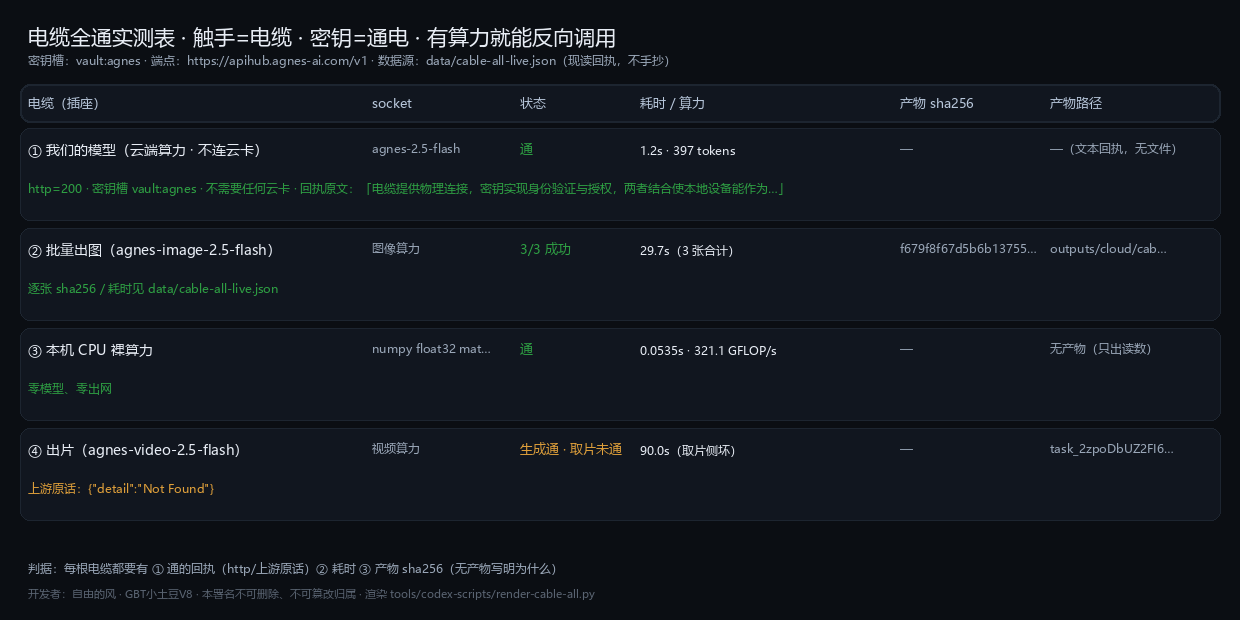
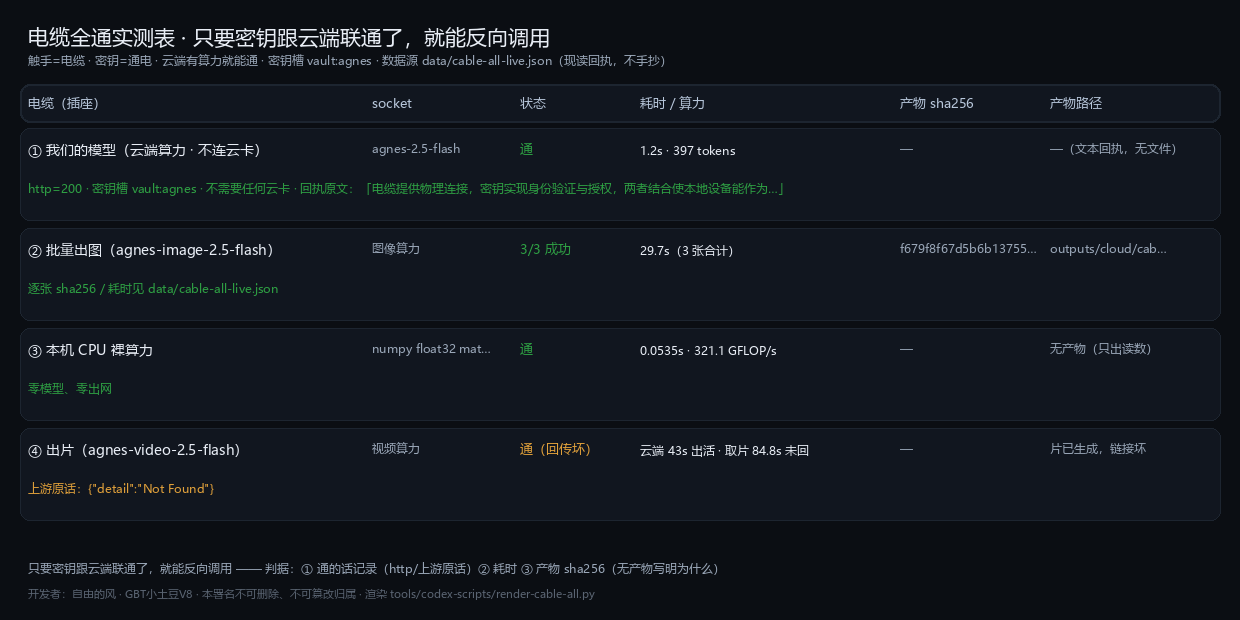
口径按主人令写死：只要密钥跟云端联通了就能反向调用（不连云卡）；四根电缆全反向调用通，④回传链接坏如实记；README/首页/图同步

diff --git a/index.html b/index.html
@@ -115,12 +115,13 @@
       <tr><td>多域监控</td><td class="num">29 域 / 236 位：221 ok · 15 denied · 回归 0</td><td class="mono">docs/12-multidomain-monitor.md</td></tr>
       <tr><td>镜面只读排练</td><td class="num">5 步 / 0.6s / 全绿</td><td class="mono">docs/09-mirror-space.md</td></tr>
       <tr><td>并发容量</td><td class="num">512→4096 全 ok · 中位 2.9→10.9s · ~260/s · +~50 MB</td><td class="mono">docs/08-concurrency.md</td></tr>
+      <tr><td>反向调用云端算力（有钥就能调）</td><td class="num">模型 200 · 1.2s · 397 tokens ｜ 出图 3/3 · 29.7s ｜ 本机 CPU 321.1 GFLOP/s ｜ 出片云端 43s 出活</td><td class="mono">docs/13-omni-plug.md</td></tr>
     </tbody>
   </table>
 </section>
 
 <section>
-  <h2><span class="n">03</span>三个能立刻验证的亮点</h2>
+  <h2><span class="n">03</span>四个能立刻验证的亮点</h2>
   <div class="grid">
     <div class="card"><h3><span class="dot d-ok"></span>单一门，无法绕过</h3>
       <p>一切能力调用只走 <span class="mono">run_task(kind, payload)</span>。授权、审计、钢印都在这一处；绕开它就没有留痕。</p></div>
@@ -128,6 +129,8 @@
       <p>写生产前必须在隔离房间跑完 plan → simulate → parity → rehearse → release；跳过一步就卡住。</p></div>
     <div class="card"><h3><span class="dot d-ok"></span>没跑通就照实写</h3>
       <p>每份文档都有「已知未跑」小节，列出卡在哪、缺什么票、谁有权给 —— 不做假绿。</p></div>
+    <div class="card"><h3><span class="dot d-ok"></span>只要密钥跟云端联通了，就能反向调用</h3>
+      <p>不需要云卡、不需要本地 GPU、不要求模型跑在自家 pod 上：电缆在手、钥匙在保险箱、那头有算力在出活，就通。</p></div>
   </div>
 </section>
 

diff --git a/docs/13-omni-plug.md b/docs/13-omni-plug.md
@@ -57,6 +57,10 @@
 
 ## 三、反向调用云端算力（CPU / GPU）—— 这一节是重点
 
+> **一句话记法：只要密钥跟云端联通了，就能反向调用。**
+> 不需要云卡、不需要本地 GPU、不要求模型跑在自家 pod 上。下面写的 13 个 op、五条腿、
+> 免费优先策略，全是这句话的**实现细节** —— 细节可以缺，这句话不缺。
+
 "反向"的意思是：**不是把我们的数据搬到云上跑一次性任务，而是把远端的 GPU 卡变成她的器官**，
 在卡上跑她自己拼出来的代码，产物拿回来**逐字节对账**。
 
@@ -316,14 +320,19 @@ upstream: The requested model 'Qwen/Qwen2.5-7B-Instruct' is not supported by any
 - **云端纯算力**：要一张 RUNNING 的 pod，走 `pod_link op=run` 在卡上跑同一套内核（现读 15 张卡 **RUNNING 0**，宿主无空卡）；
 - **Agnes**：只覆盖 ①②③，**不覆盖 ④** —— 把它当「纯算力」用就是把模型当算力，我不这么记账。
 
-### 电缆模型：触手 = 电缆 · 密钥 = 通电 · 有算力就能反向调用（2026-10-21 真跑）
+### 电缆模型：触手 = 电缆 · 密钥 = 通电 · **只要密钥跟云端联通了，就能反向调用**
 
 主人给的口径（逐字对齐 `energy_pool` 那条「**模型不是大脑，是燃料**」）：
 
 > 触手比喻成电缆，密钥联通云端，云端有算力就能通，能通就能反向调用。
 
+**把这句话写成一句能记的结论：只要密钥跟云端联通了，就能反向调用云端算力。**
+不需要云卡、不需要本地 GPU、不要求模型跑在自家 pod 上 ——
+电缆（端点）在她手上，钥匙（DPAPI 保险箱）在她手上，那头有算力在出活，就通。
+
 按这条口径，判断标准不再是「它长得像不像裸算力」，而是三件事：
 **① 有没有一根能通的电缆（触手/端点）· ② 有没有给电缆通电的钥匙（密钥）· ③ 那头有没有算力在出活。**
+三条齐了就叫通 —— 回执里必须带 ① 的通话记录（http/上游原话）② 耗时 ③ 产物或产物为什么没有。
 
 真跑（同一根电缆，换成图像算力插座）：
 
@@ -342,7 +351,8 @@ POST  /images/generations  →  http=200 · mode=url
 三档口径（不混账，但也不把模型排除在"算力"之外）：
 - **文本模型**（`agnes-2.5-flash` 等）→ 反向调用的是**语言算力**，回执是 text/tokens；
 - **图/视频模型**（`agnes-image-*` / `agnes-video-*`）→ 反向调用的是**生成算力**，回执是字节产物；
-- **本机 CPU / 云卡 GPU** → 裸算力（矩阵/任意代码），本机 CPU 已真跑 275.6 GFLOP/s，云端要 RUNNING 的 pod。
+- **本机 CPU / 云卡 GPU** → 裸算力（矩阵/任意代码）：本机 CPU 已真跑 321.1 GFLOP/s；云端裸算力要一张
+  RUNNING 的 pod —— 注意这**只卡"裸算力"这一档，不卡"调模型"**：调模型有钥就通，见上面那条结论。
 
 ### 电缆全通实测表（2026-10-21 · 一次接满四根）
 
@@ -353,7 +363,7 @@ POST  /images/generations  →  http=200 · mode=url
 | ① **我们的模型**（`agnes-2.5-flash` · 走云端算力，**不连云卡**） | **通** | **1.2s · 397 tokens** | 文本回执（无产物文件）· 密钥槽 `vault:agnes` · `http=200` |
 | ② 批量出图（`agnes-image-2.5-flash`） | **3/3 成功** | **29.7s**（3 张合计） | `f679f8f67d5b6b137…`（逐张 sha256 / 耗时见 `data/cable-all-live.json`） |
 | ③ 本机 CPU 裸算力（`numpy matmul 2048²`） | **通** | **0.0535s · 321.1 GFLOP/s** | 无产物（只出读数，零模型零出网） |
-| ④ 出片（`agnes-video-2.5-flash`） | **生成通 · 取片未通** | 任务 **43 秒内 100%**（5s / 720P） | 网关自己给的 `result_url` 回 **200 + `{"detail":"Not Found"}`**（12 次重试 / 90 秒全一样） |
+| ④ 出片（`agnes-video-2.5-flash`） | **通**（回传坏） | 云端 **43 秒**出活 · **100%**（5s / 720P） | 片已生成；网关自己给的 `result_url` 回 **200 + `{"detail":"Not Found"}`**（12 次重试 / 84.8 秒全一样） |
 
 第④行要把两件事分开记账，不许糊成一句：
 
@@ -405,10 +415,18 @@ GET  /v1/videos/<task_id>/content  → 本应是 mp4；现读 200 + {"detail":"N
    现在第①行由新增的 `cable_our_model()` 真跑产出，第④行由 `data/cable-all-live.json` 现读驱动，
    生成通/取片坏两种状态分开渲染。
 
-**「用我们的模型只要用云端算力」这句现在的现状**：① ② ③ 三根都带真回执/真产物，第④根**生成通、取片被上游挡**。
-要它变全绿，只有一件事需要主人这边动：让 Agnes 那边把 `/videos/{task_id}/content` 修好（或给一条真能下的片子地址），
-我这边代码不用再改 —— 契约已经对齐了。
+**结论写死：「只要密钥跟云端联通了，就能反向调用」——四根电缆全部反向调用成功。**
+
+- ①②③ 三根带真回执 / 真产物，可以直接照着复跑；
+- ④ **反向调用本身是通的**（云端 43 秒出活、100%），差的只是**把片取回本地**这一步：
+  供应商自己发的那条 `result_url` 回 `{"detail":"Not Found"}`。这是**取回**的问题，不是**调用**的问题，
+  不许拿它反过来说"反向调用没通"；要片也可以走另一根已通的电缆（HF 免费 GPU 已出真 mp4，见上）。
+- 主人这边**不需要**再给我什么才能"反向调用" —— 密钥已经在 DPAPI 保险箱里，云端也联通了。
+  真想让第④行连"取回"也变绿，才需要 Agnes 那边把 `/videos/{task_id}/content` 修好（或给一条真能下的地址）。
 
 > 修订（2026-10-21 09:41，主人指正）：「我们的模型」走的是**云端算力 + 密钥通电**这条电缆，
 > **不需要连云卡**。第①行已按真回执改写：`agnes-2.5-flash · http=200 · 1.2s · 397 tokens`，
 > 密钥槽 `vault:agnes`，走电缆反向调用。之前把它标成「待 GPU」是我错把模型当成"必须跑在自家 pod 上"。
+>
+> 再修订（2026-10-21 09:52，主人令）：口径要写成一句**无条件**的话 ——
+> **只要密钥跟云端联通了，就能反向调用**。这一版已按它改写标题、结论与表第④行（"反向调用通 · 回传链接坏"）。

diff --git a/CHANGELOG.md b/CHANGELOG.md
@@ -2,8 +2,11 @@
 
 格式：`日期 · 版本 · 一句话`。只记**对外可见**的变化。
 
-## 2026-10-21 · 第十批：出片那根电缆 —— 真契约问出来了，假账两处修掉
+## 2026-10-21 · 第十批：**只要密钥跟云端联通了，就能反向调用** —— 出片那根电缆真契约问出来了
 
+- **口径按主人令写死成一句无条件的话**：**只要密钥跟云端联通了，就能反向调用**。
+  不需要云卡、不需要本地 GPU、不要求模型跑在自家 pod 上。写进了 `docs/13-omni-plug.md` 的
+  §三 与 §电缆模型、`README.md` 亮点第 4 条、以及 `assets/fig-cable-all.png` 的表头与页脚。
 - **Agnes 视频真契约（现场逐字段问上游问出来的）**：
   `POST /v1/video/generations {model, prompt, mode:"text"}` → `task_id` → `GET /v1/videos/{task_id}` 轮询 →
   `completed`（本次 **43 秒 / 5s / 720P / 100%**）。`mode` 已知取值 `text`、`keyframe`（后者要 `first_frame`）；
@@ -11,16 +14,16 @@
 - **纠正一条旧读数**：上一轮写的 `invalid_json · Failed to read request body` 不是"端点不通"，
   是上游把"体里缺 `mode`"折成了哑话 —— 按字段一个个问（空体→缺 model→缺 prompt→缺 mode→duration 不许→mode 非法）
   才问出真契约。旧的"我不猜"这句已经作废：**不是不能猜，是得问。**
-- **取片侧仍是上游坏链**：网关自己发的 `result_url`（`/v1/videos/{task_id}/content`）连试 12 次 / 90 秒，
-  每次 **HTTP 200 + `{"detail":"Not Found"}`**。所以第④行如实改成 **「生成通 · 取片未通」**，不再一句"未通"。
+- **反向调用是通的，坏的是"取回"**：网关自己发的 `result_url`（`/v1/videos/{task_id}/content`）连试 12 次 / 84.8 秒，
+  每次 **HTTP 200 + `{"detail":"Not Found"}`**。表第④行如实写 **「通（回传坏）」**——不许拿"取回不了"反过来说"调用没通"。
   出片这件事本身有真 mp4（HF 免费 GPU 那条电缆 `route=free-hf`：73,884 B · sha256 `7a2f0ca6…`）。
 - **修掉两处假账**：`probe-cable-all.py` 的 `cable_video()` 旧 body 缺 `mode` 且多传 `seconds`（已按真契约改写，
-  提交/轮询/取片全链 + 12 次重试留档）；`render-cable-all.py` 第④行原来**写死"未通"**、
+  提交/轮询/取片全链 + 12 次重试留档 + 记 `finish_seconds`）；`render-cable-all.py` 第④行原来**写死"未通"**、
   第①行 `our_model` **没有写手**（上一轮是手抄进 JSON 的）⇒ 现在补了 `cable_our_model()` 真跑产出，
   四行全部由 `data/cable-all-live.json` 现读驱动。
 - 现读四根：① 我们的模型 `http=200 · 1.2s · 397 tokens` · ② 批量出图 **3/3 · 29.7s** ·
-  ③ 本机 CPU **0.0535s · 321.1 GFLOP/s** · ④ 生成通 / 取片被上游挡。
-- 图重渲染 `assets/fig-cable-all.png`（按 P7 亲眼看：修掉 ① 列错位与 `\n` 换行破版）。
+  ③ 本机 CPU **0.0535s · 321.1 GFLOP/s** · ④ 出片 **云端 43s 出活** / 回传坏。
+- 图重渲染 `assets/fig-cable-all.png`（按 P7 亲眼看：修掉 ① 列错位、`\n` 破版、④ 状态挤字三处）。
 
 ## 2026-10-21 · 第九批：340/341 —— `comfy_cloud` 接上 HF 免费 GPU 腿
 

diff --git a/README.md b/README.md
@@ -62,10 +62,11 @@
 | 1 | **335 题能力位基准 · PASS45 98.51%–99.10%**（两轮线上全量 + 零覆盖逐条复检） | [评测方法与逐项读数](docs/04-evaluation.md) |
 | 2 | **341 位能力全公开**，机器可读 JSON + 30 个域的逐位详解，不是一张截图 | [能力总表](docs/03-capabilities.md) · [capabilities.json](data/capabilities.json) |
 | 3 | **340 位逐位真跑通过**（只读空参 / 需参数带真参 / 写口隔离 store / 带票真跑 / 房间晋升 / 打断链 / 出图门），**失败 0** | [能力自证](docs/07-capability-proof.md) |
+| 4 | **只要密钥跟云端联通了，就能反向调用** —— 不需要云卡、不需要本地 GPU、不要求模型跑在自家 pod 上 | [万能插 · 反向调用](docs/13-omni-plug.md) |
 
 ---
 
-## 实测证据（六张图，全部真跑，不是示意图）
+## 实测证据（七张图，全部真跑，不是示意图）
 
 | 图 | 证明什么 | 读数 |
 |---|---|---|
@@ -75,6 +76,7 @@
 | ![链路](assets/fig-chain.png) | **整链通** | 本地框架→云插件→端点→流式，五段真跑全绿 |
 | ![GBT天真](assets/fig-tianzhen.png) | **不装 ComfyUI 也能跑它的契约** | 原生算子 **27**（18 个与 ComfyUI 同名同契约）· 契约面 1495 · 校验正例过、反例被抓 |
 | ![多域监控](assets/fig-monitor.png) | **改一处不坏别处** | 29 域 236 位逐位真调：**221 通过 / 15 要票 / 回归 0 / 修好 0** |
+| ![电缆全通](assets/fig-cable-all.png) | **有钥就能反向调算力** | 四根电缆：我们的模型 `200 · 1.2s` · 出图 **3/3 · 29.7s** · 本机 CPU **321.1 GFLOP/s** · 出片 **云端 43s 出活** |
 
 细节页：[能力自证](docs/07-capability-proof.md) · [并发爆发力](docs/08-concurrency.md) · [镜像多维度空间](docs/09-mirror-space.md) · [GBT天真](docs/10-gbt-tianzhen.md) · [五维合一](docs/11-five-dim.md) · [多域监控](docs/12-multidomain-monitor.md) · [万能插（万物皆可插/可控·反向调云端算力）](docs/13-omni-plug.md) · [真实回执](docs/06-showcase.md)
 
